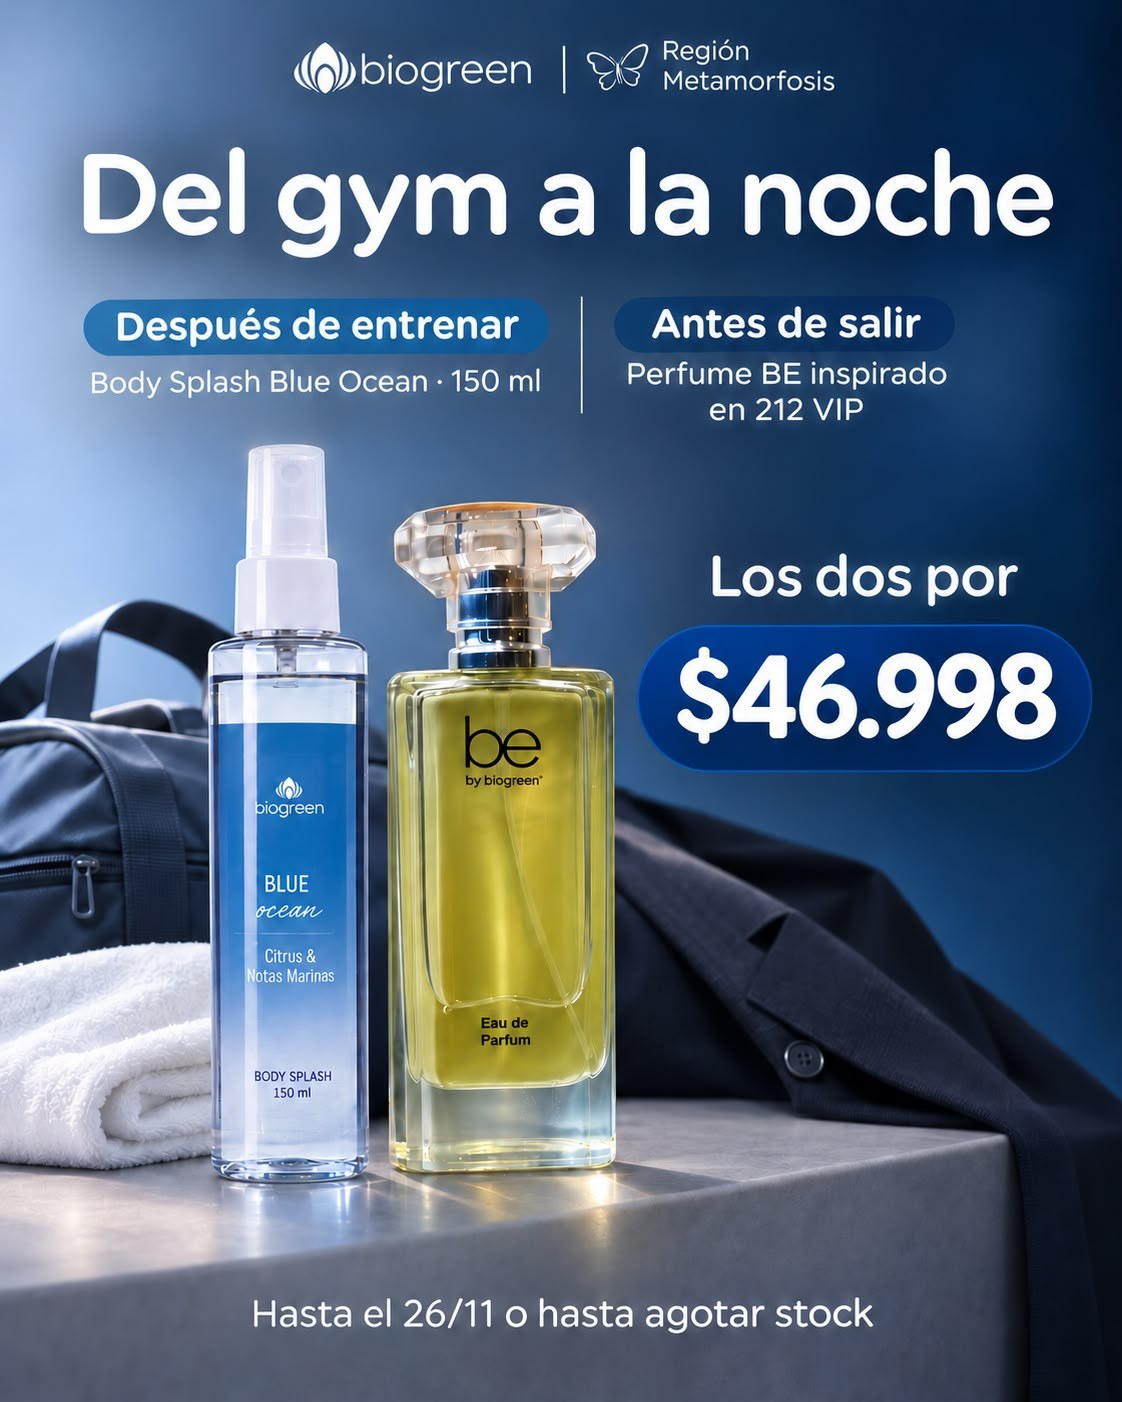
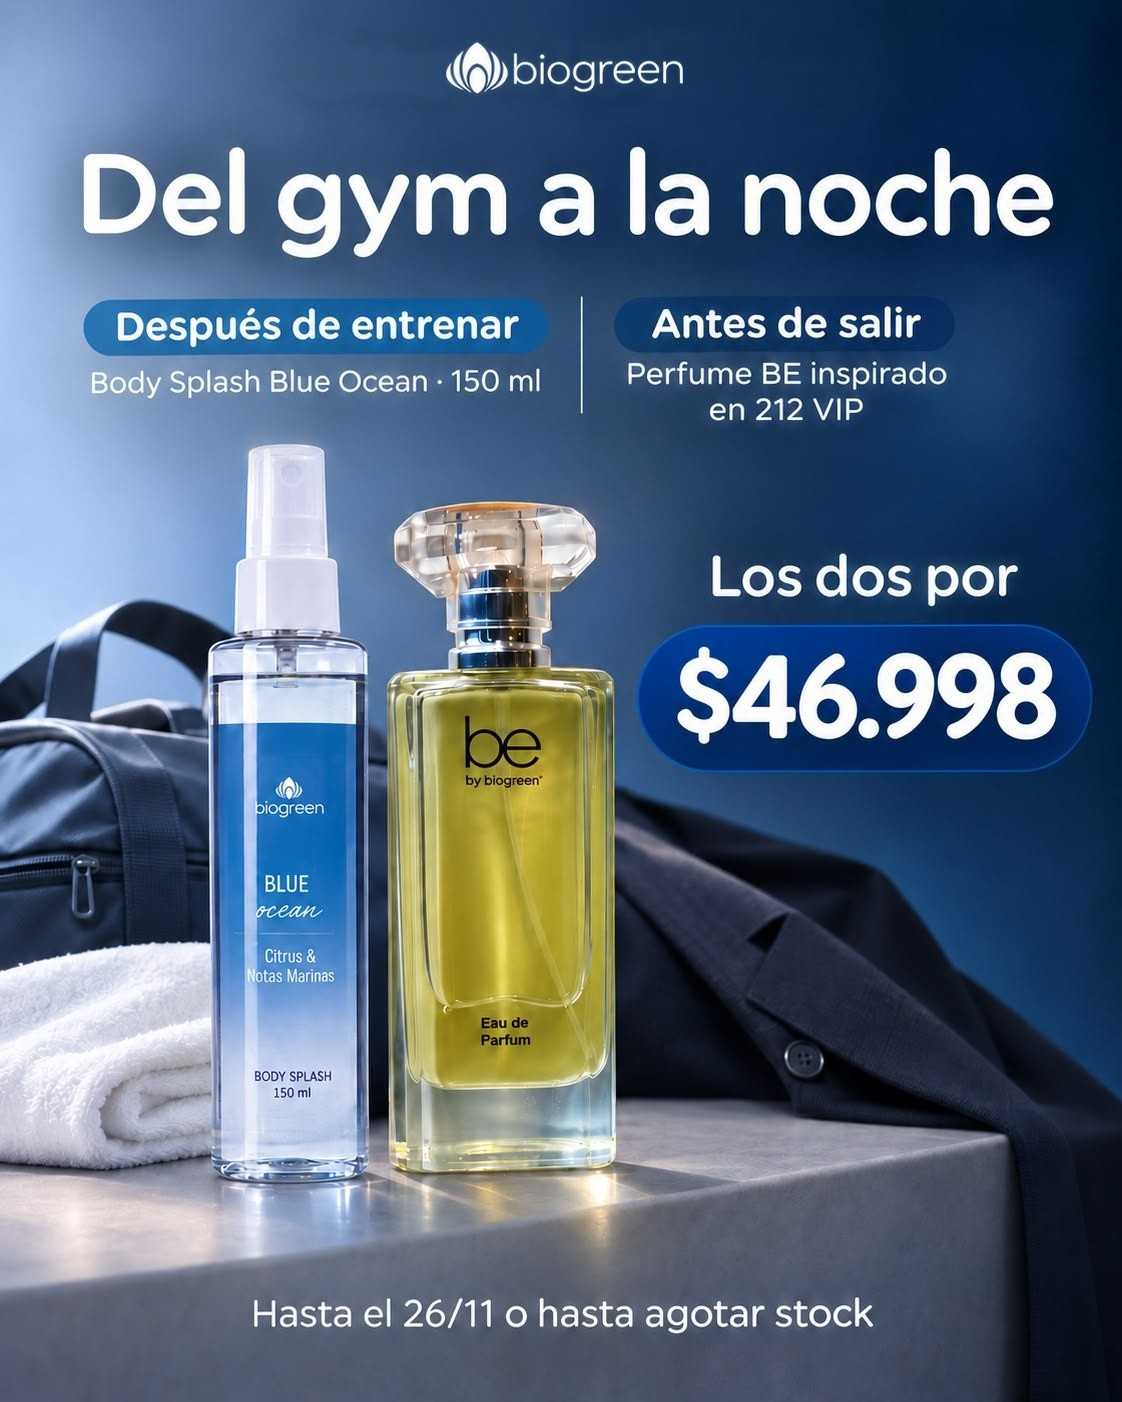
Promos Be: saca Región Metamorfosis de las 11 promos del 20/11, con textos; Promociones sin duplicados

Changed region(s): [[0.2496, 0.0307, 0.7487, 0.092]]

diff --git a/semana.js b/semana.js
@@ -72,47 +72,47 @@ window.SEMANA = {
     },
     {
       "archivo": "fotos/semana/2026-11-20-whatsapp-image-2026-11-20-at-1-bm73.jpg",
-      "texto": ""
+      "texto": "Regalos de Navidad · perfumes y dúos Biogreen · contame para quién es y te ayudo a elegir 🎄"
     },
     {
       "archivo": "fotos/semana/2026-11-20-whatsapp-image-2026-11-20-at-1-jr4c.jpg",
-      "texto": ""
+      "texto": "¿Dos regalos pendientes? · Elegí 2 perfumes BE, femeninos o masculinos · $57.998 · hasta el 26/11 🎁"
     },
     {
       "archivo": "fotos/semana/2026-11-20-whatsapp-image-2026-11-20-at-1-6dbn.jpg",
-      "texto": ""
+      "texto": "Del gym a la noche · Body Splash Blue Ocean 150 ml + Perfume BE inspirado en 212 VIP · los dos por $46.998 · hasta el 26/11 💪"
     },
     {
       "archivo": "fotos/semana/2026-11-20-whatsapp-image-2026-11-20-at-1-r0ot.jpg",
-      "texto": ""
+      "texto": "Para él y su auto · Perfume BE inspirado en Acqua di Giò + Aromatizante para auto Ámbar & Frutas 100 ml · los dos por $36.698 · hasta el 26/11 🚗"
     },
     {
       "archivo": "fotos/semana/2026-11-20-whatsapp-image-2026-11-20-at-1-12an.jpg",
-      "texto": ""
+      "texto": "Del bolso al escritorio · Perfume BE inspirado en Ralph + Crema para manos y uñas Almendras Dulces 75 ml · $47.998 · hasta el 26/11 🤍"
     },
     {
       "archivo": "fotos/semana/2026-11-20-whatsapp-image-2026-11-20-at-1-l5hv.jpg",
-      "texto": ""
+      "texto": "Un toque de verde · Perfume BE inspirado en Be Delicious + Esmalte en gel Green Mood · $40.598 · hasta el 26/11 💚"
     },
     {
       "archivo": "fotos/semana/2026-11-20-whatsapp-image-2026-11-20-at-1-gk7e.jpg",
-      "texto": ""
+      "texto": "Noche en rojo · Perfume BE inspirado en Poison Girl + Esmalte en gel Red Tomato · $40.598 · hasta el 26/11 ❤"
     },
     {
       "archivo": "fotos/semana/2026-11-20-whatsapp-image-2026-11-20-at-1-qumd.jpg",
-      "texto": ""
+      "texto": "Hoy salgo · Perfume BE inspirado en Fame + Esmalte en gel Passion Pink · $40.598 · hasta el 26/11 💖"
     },
     {
       "archivo": "fotos/semana/2026-11-20-whatsapp-image-2026-11-20-at-1-2mki.jpg",
-      "texto": ""
+      "texto": "Una de día, otra de noche · BE inspirado en Acqua di Gioia + BE inspirado en Poison Girl · los dos por $57.998 · hasta el 26/11 🌸"
     },
     {
       "archivo": "fotos/semana/2026-11-20-whatsapp-image-2026-11-20-at-1-urso.jpg",
-      "texto": ""
+      "texto": "Uno de día, otro de noche · BE inspirado en Acqua di Giò + BE inspirado en Bad Boy · los dos por $57.998 (antes $69.998) · hasta el 26/11 🖤"
     },
     {
       "archivo": "fotos/semana/2026-11-20-whatsapp-image-2026-11-20-at-1-o34t.jpg",
-      "texto": ""
+      "texto": "Dúo Light Blue · Perfume BE 60 ml inspirado en Light Blue + Esmalte en gel Light Blue · $40.598 (antes $51.698) · hasta el 26/11 💙"
     }
   ]
 };

diff --git a/lineas.js b/lineas.js
@@ -826,48 +826,7 @@ window.LINEAS = [
   },
   {
     "nombre": "Promociones",
-    "fotos": [
-      {
-        "archivo": "fotos/lineas/promociones/duo-light-blue.jpg",
-        "texto": "Dúo Light Blue · Perfume BE 60 ml inspirado en Light Blue + Esmalte en gel Light Blue · $40.598 (antes $51.698) · hasta el 26/11 💙"
-      },
-      {
-        "archivo": "fotos/lineas/promociones/una-de-dia-otra-de-noche.jpg",
-        "texto": "Una de día, otra de noche · BE inspirado en Acqua di Gioia + BE inspirado en Poison Girl · los dos por $57.998 · hasta el 26/11 🌸"
-      },
-      {
-        "archivo": "fotos/lineas/promociones/noche-en-rojo.jpg",
-        "texto": "Noche en rojo · Perfume BE inspirado en Poison Girl + Esmalte en gel Red Tomato · $40.598 · hasta el 26/11 ❤"
-      },
-      {
-        "archivo": "fotos/lineas/promociones/un-toque-de-verde.jpg",
-        "texto": "Un toque de verde · Perfume BE inspirado en Be Delicious + Esmalte en gel Green Mood · $40.598 · hasta el 26/11 💚"
-      },
-      {
-        "archivo": "fotos/lineas/promociones/del-bolso-al-escritorio.jpg",
-        "texto": "Del bolso al escritorio · Perfume BE inspirado en Ralph + Crema para manos y uñas Almendras Dulces 75 ml · $47.998 · hasta el 26/11 🤍"
-      },
-      {
-        "archivo": "fotos/lineas/promociones/uno-de-dia-otro-de-noche.jpg",
-        "texto": "Uno de día, otro de noche · BE inspirado en Acqua di Giò + BE inspirado en Bad Boy · los dos por $57.998 (antes $69.998) · hasta el 26/11 🖤"
-      },
-      {
-        "archivo": "fotos/lineas/promociones/para-el-y-su-auto.jpg",
-        "texto": "Para él y su auto · Perfume BE inspirado en Acqua di Giò + Aromatizante para auto Ámbar & Frutas 100 ml · los dos por $36.698 · hasta el 26/11 🚗"
-      },
-      {
-        "archivo": "fotos/lineas/promociones/del-gym-a-la-noche.jpg",
-        "texto": "Del gym a la noche · Body Splash Blue Ocean 150 ml + Perfume BE inspirado en 212 VIP · los dos por $46.998 · hasta el 26/11 💪"
-      },
-      {
-        "archivo": "fotos/lineas/promociones/dos-regalos-pendientes.jpg",
-        "texto": "¿Dos regalos pendientes? · Elegí 2 perfumes BE, femeninos o masculinos · $57.998 · hasta el 26/11 🎁"
-      },
-      {
-        "archivo": "fotos/lineas/promociones/regalos-de-navidad.jpg",
-        "texto": "Regalos de Navidad · perfumes y dúos Biogreen · contame para quién es y te ayudo a elegir 🎄"
-      }
-    ]
+    "fotos": []
   },
   {
     "nombre": "Green Week",
